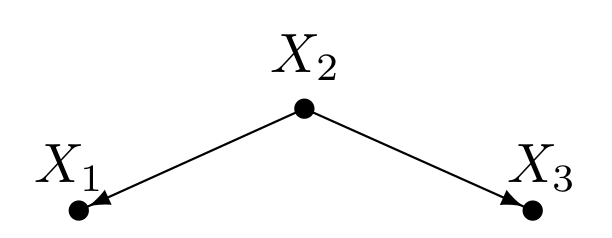
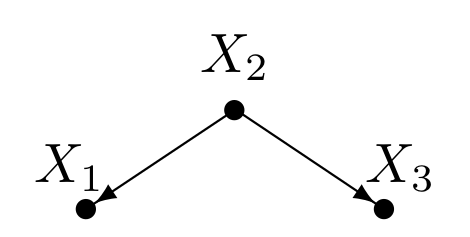
section:background,dag; process:write;figures

Changed region(s): [[0.0596, 0.4135, 0.5362, 0.9451], [0.5362, 0.5021, 0.9532, 0.9451], [0.417, 0.1181, 0.566, 0.3544]]

diff --git a/images/tex/dag_bb4.tex b/images/tex/dag_bb4.tex
@@ -10,7 +10,7 @@
 \begin{tikzpicture}
 
     % dag_bb1
-    \node at (-1.5,0) {$X_{1}$};
+    \node at (-1.05,0) {$X_{1}$};
     %\node at (0,0) {$X_{2}$}; 
     %\draw[black, fill=black] (-1.5,-0.3) circle(1.6pt);
     %\draw[black, fill=black] (0,-0.3) circle(1.6pt);
@@ -19,14 +19,14 @@
     %\draw[{Circle}-{latex}{Circle}](-1.55,-0.3) to (0.05,-0.3); % X1 -> X2 (circle)
     
     % dag_bb3
-    \node at (1.5,0) {$X_{3}$};
+    \node at (1.05,0) {$X_{3}$};
     %\draw[{Circle}-{latex}](-1.5,-0.3) to (0,-0.3); % X1 -> X2
     %\draw[{Circle}-{latex}{Circle}](0,-0.3) to (1.5,-0.3); % X2 -> X3
     
     % dag_bb4
     \node at (0,0.7) {$X_{2}$}; % top
-    \draw[{Circle}-{latex}{Circle}](0.05,0.4) to (-1.5,-0.3); % X2 -> X1 (top)
-    \draw[-{latex}{Circle}](0,0.37) to (1.5,-0.3); % X2 -> X3 (top)
+    \draw[{Circle}-{latex}{Circle}](0.05,0.4) to (-1,-0.3); % X2 -> X1 (top)
+    \draw[-{latex}{Circle}](0,0.37) to (1,-0.3); % X2 -> X3 (top)
     
     % dag_bb5
     %\node at (0,-1.2) {$X_{2}$}; % bottom

diff --git a/images/tex/dag_bb5.tex b/images/tex/dag_bb5.tex
@@ -10,7 +10,7 @@
 \begin{tikzpicture}
 
     % dag_bb1
-    \node at (-1.5,0) {$X_{1}$};
+    \node at (-1.05,0) {$X_{1}$};
     %\node at (0,0) {$X_{2}$}; 
     %\draw[black, fill=black] (-1.5,-0.3) circle(1.6pt);
     %\draw[black, fill=black] (0,-0.3) circle(1.6pt);
@@ -19,7 +19,7 @@
     %\draw[{Circle}-{latex}{Circle}](-1.55,-0.3) to (0.05,-0.3); % X1 -> X2 (circle)
     
     % dag_bb3
-    \node at (1.5,0) {$X_{3}$};
+    \node at (1.05,0) {$X_{3}$};
     %\draw[{Circle}-{latex}](-1.5,-0.3) to (0,-0.3); % X1 -> X2
     %\draw[{Circle}-{latex}{Circle}](0,-0.3) to (1.5,-0.3); % X2 -> X3
     
@@ -30,8 +30,8 @@
     
     % dag_bb5
     \node at (0,-1.2) {$X_{2}$}; % bottom
-	\draw[{Circle}-{latex}](-1.5,-0.3) to (0,-0.85); % X1 -> X2 (bottom)
-    \draw[{Circle}-{latex}{Circle}](1.5,-0.3) to (0,-0.9); % X3 -> X2 (bottom)
+	\draw[{Circle}-{latex}](-1,-0.2) to (0,-0.85); % X1 -> X2 (bottom)
+    \draw[{Circle}-{latex}{Circle}](1,-0.2) to (0,-0.9); % X3 -> X2 (bottom)
     
 \end{tikzpicture}
 

diff --git a/images/tex/dag_bb3.tex b/images/tex/dag_bb3.tex
@@ -10,7 +10,7 @@
 \begin{tikzpicture}
 
     % dag_bb1
-    \node at (-1.5,0) {$X_{1}$};
+    \node at (-1,0) {$X_{1}$};
     \node at (0,0) {$X_{2}$}; 
     %\draw[black, fill=black] (-1.5,-0.3) circle(1.6pt);
     %\draw[black, fill=black] (0,-0.3) circle(1.6pt);
@@ -19,9 +19,9 @@
     %\draw[{Circle}-{latex}{Circle}](-1.55,-0.3) to (0.05,-0.3); % X1 -> X2 (circle)
     
     % dag_bb3
-    \node at (1.5,0) {$X_{3}$};
-    \draw[{Circle}-{latex}](-1.5,-0.3) to (0,-0.3); % X1 -> X2
-    \draw[{Circle}-{latex}{Circle}](0,-0.3) to (1.5,-0.3); % X2 -> X3
+    \node at (1,0) {$X_{3}$};
+    \draw[{Circle}-{latex}](-1,-0.3) to (0,-0.3); % X1 -> X2
+    \draw[{Circle}-{latex}{Circle}](0,-0.3) to (1,-0.3); % X2 -> X3
     
     % dag_bb4
     %\node at (0,0.7) {$X_{2}$}; % top

diff --git a/images/tex/dag_bb2.tex b/images/tex/dag_bb2.tex
@@ -10,13 +10,13 @@
 \begin{tikzpicture}
 
     % dag_bb1
-    \node at (-1.5,0) {$X_{1}$};
+    \node at (-1,0) {$X_{1}$};
     \node at (0,0) {$X_{2}$}; 
     %\draw[black, fill=black] (-1.5,-0.3) circle(1.6pt);
     %\draw[black, fill=black] (0,-0.3) circle(1.6pt);
 
     % dag_bb2
-    \draw[{Circle}-{latex}{Circle}](-1.55,-0.3) to (0.05,-0.3); % X1 -> X2 (circle)
+    \draw[{Circle}-{latex}{Circle}](-1.05,-0.3) to (0.05,-0.3); % X1 -> X2 (circle)
     
     % dag_bb3
     %\node at (1.5,0) {$X_{3}$};

diff --git a/images/tex/dag_bb1.tex b/images/tex/dag_bb1.tex
@@ -10,9 +10,9 @@
 \begin{tikzpicture}
 
     % dag_bb1
-    \node at (-1.5,0) {$X_{1}$};
+    \node at (-1,0) {$X_{1}$};
     \node at (0,0) {$X_{2}$}; 
-    \draw[black, fill=black] (-1.5,-0.3) circle(1.6pt);
+    \draw[black, fill=black] (-1,-0.3) circle(1.6pt);
     \draw[black, fill=black] (0,-0.3) circle(1.6pt);
 
     % dag_bb2
